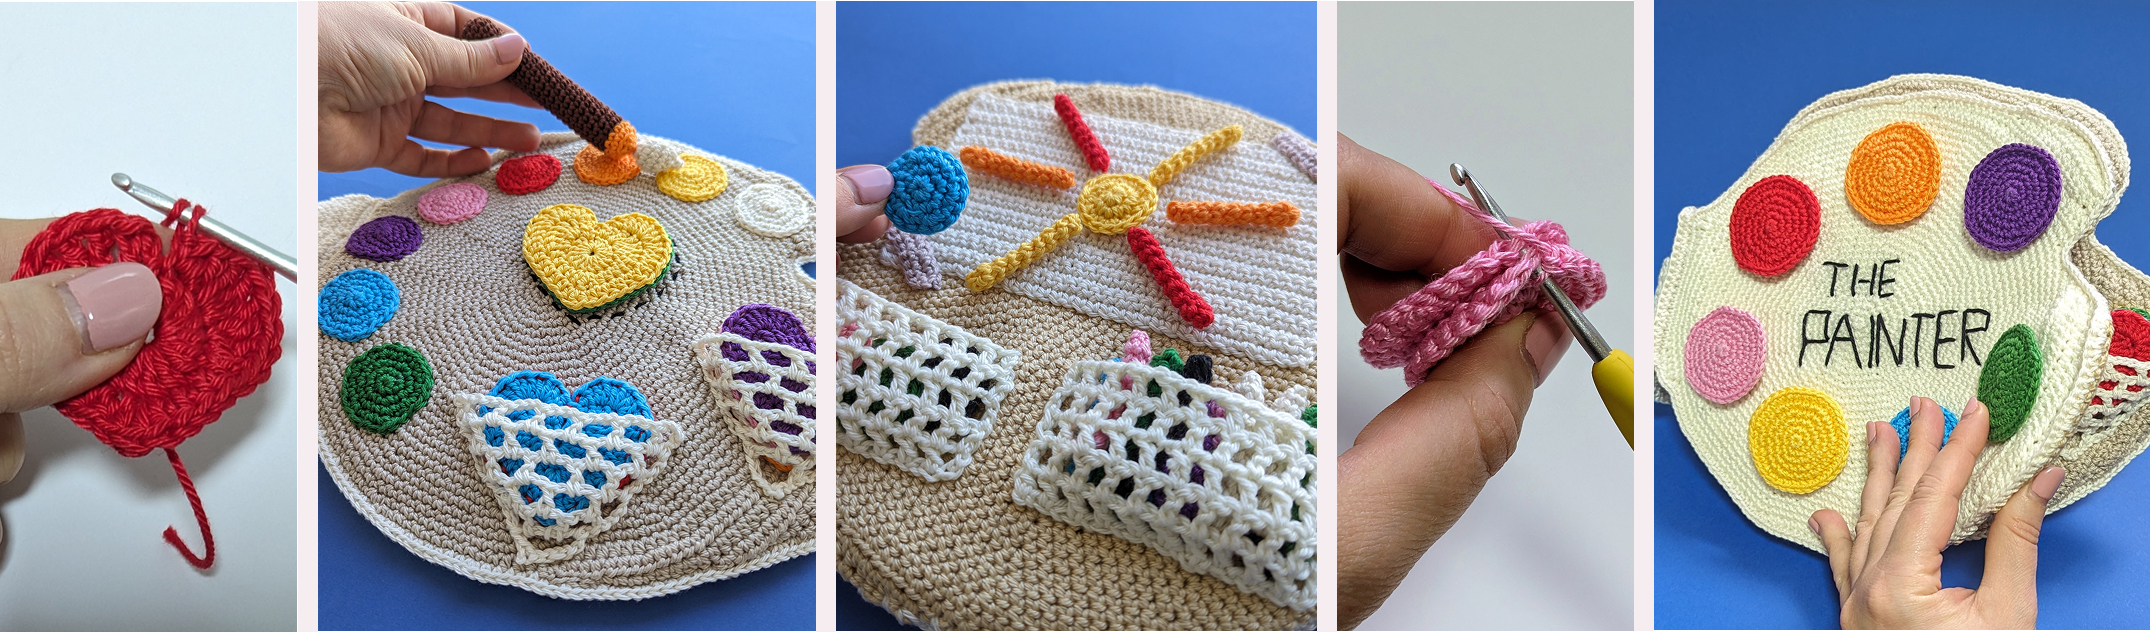
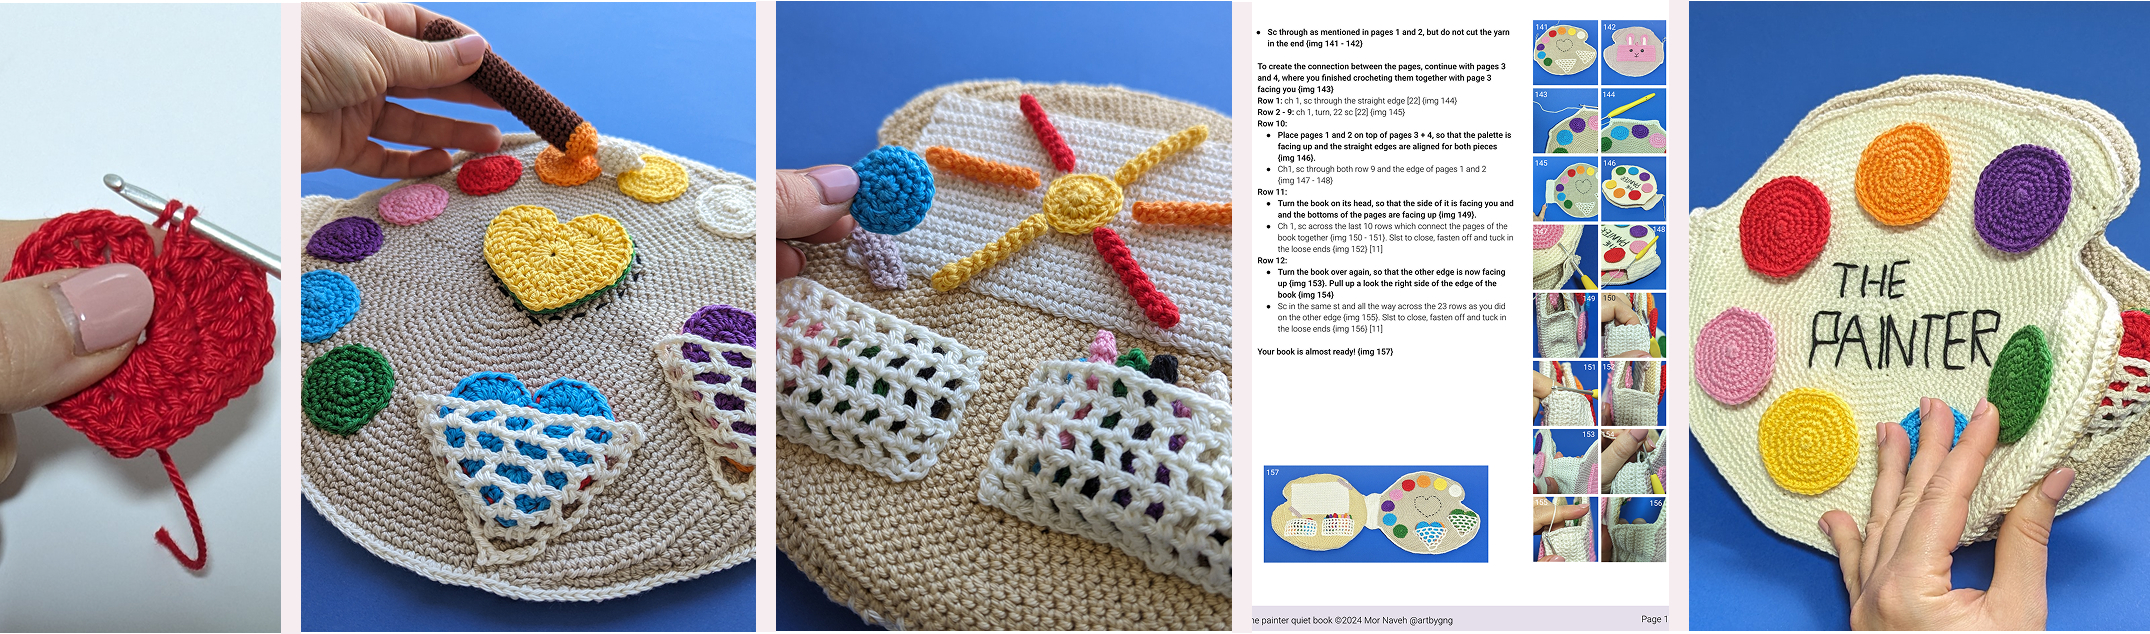
Add Fun Foods pattern page and update all pattern FAQs
- Add fun-foods.md with full content, images, skill notes, and FAQ
- Update homepage FAQ with buyer-concern questions
- Update Bake Time FAQ with pattern-specific questions
- Change "What's inside" to "What's inside the pattern" across all patterns

diff --git a/src/content/patterns/fun-foods.md b/src/content/patterns/fun-foods.md
@@ -1,10 +1,72 @@
 ---
-title: "Fun Foods"
-tagline: "From pizza to watermelon — a playful feast of crocheted food for little hands."
+title: "Fun Foods Pattern"
+tagline: "A crochet PDF pattern for a food-themed quiet book — toppings to pile on, fillings to stuff, and a full little menu to play with."
 coverImage: "/images/patterns/fun-foods/cover.jpg"
-etsy_url: "https://www.etsy.com/shop/artbygng"
-accentColor: "#C45858"
-featured: false
+heroImage: "/images/patterns/fun-foods/hero.jpg"
+etsy_url: "https://www.etsy.com/il-en/listing/1761898842/fun-foods-crochet-quiet-book-pattern"
+accentColor: "#C94F3A"
+featured: true
+skillNotes:
+  easy:
+    - "Each page panel is a flat circle worked in the round — the same construction repeated across all 4 pages, so it gets familiar fast"
+    - "The pizza toppings are small, simple shapes — circles and leaves — each one quick to make and satisfying to finish"
+    - "Color changes happen per piece, not mid-row, so there's no juggling multiple yarns at once"
+    - "Velcro placements are clearly marked throughout, so there's no guessing where each piece attaches"
+  patient:
+    - "The sushi roll has multiple thin layers that need to be carefully assembled and sewn together cleanly"
+    - "The taco shell and pocket require shaping and precise placement to sit correctly on the page"
+    - "The pizza calls for making multiple copies of each topping type — satisfying once you're in the rhythm, but it adds up"
+    - "The fries are individual pieces that each need their own construction and finishing"
+faq:
+  - q: "What ages is this best for?"
+    a: "Fun Foods works well for toddlers and preschoolers — roughly ages 2 to 5. The pizza toppings and taco fillings are satisfying for little hands, while the sushi assembly adds a fun challenge for older kids. As with any toy with small removable pieces, keep an eye on younger toddlers during play."
+  - q: "How many pieces does the child get to play with?"
+    a: "Quite a few — the pizza alone comes with multiple detachable toppings, the taco has a full set of fillings, and the sushi separates into its layers. Each page has its own set of pieces, so the whole book adds up to a lot of interactive play."
+  - q: "Can I choose my own colors?"
+    a: "Absolutely. The pattern tells you which color goes where, but all the choices are yours. Making a classic Margherita pizza or going wild with toppings — it all works."
+  - q: "What's the trickiest part of this pattern?"
+    a: "The sushi layers require the most precision — getting the thin pieces to sit flat and stack cleanly takes care. The taco shell shaping is also slightly more involved than the other pages."
+  - q: "What do I get with my purchase?"
+    a: "An instant-download PDF with written instructions for every element and how to put the book together, step-by-step images throughout, and a full materials list. No subscription, no video required — one purchase, yours to keep."
+details:
+  - label: "Format"
+    value: "PDF instant download"
+  - label: "Stitches"
+    value: "magic ring, ch, slst, sc, hdc, inc, dec, dc, tr"
+  - label: "Hook size"
+    value: "4 mm (G)"
+  - label: "Skill level"
+    value: "Intermediate"
+  - label: "Terminology"
+    value: "US"
+images:
+  - /images/patterns/fun-foods/page-front.jpg
+  - /images/patterns/fun-foods/page-fries.jpg
+  - /images/patterns/fun-foods/page-sushi.jpg
+  - /images/patterns/fun-foods/page-taco.jpg
+customerQuotes: []
+playVideo: "https://www.youtube.com/embed/Nt9RZcjRvOg?rel=0"
+flipVideo: ""
 ---
 
-<!-- PLACEHOLDER: Body content for the pattern spotlight page. -->
+## What's inside the pattern
+
+Fun Foods is a 4-page crochet quiet book built around a street food theme. Each page is a different dish, with detachable toppings and fillings for little hands to pile on, rearrange, and put back.
+Bold colors, familiar foods, and a lot of pieces to play with — a great gift for kids who love pretend cooking and imaginative play.
+
+### The pages
+**Pizza** — A round pizza with a crinkled brown crust and a full set of detachable toppings: tomato slices, white mushrooms, and green basil leaves. Pile them all on or start from scratch — everything velcros in place.
+
+**Street Food** — A bright orange page packed with fast-food fun. French fries sit in their red carton, a burger on a skewer is ready to munch, and a small net pocket holds a sweet treat. "YUM" says it all.
+
+**Sushi** — A sushi roll on a blue page, with all its layers — salmon, cucumber, and rice — that can be taken apart and reassembled. A net pocket on the side holds the pieces between servings.
+
+**Taco** — A purple page with a yellow taco shell that opens up to reveal a crocheted pocket. Fill it with toppings — tomatoes, lettuce, cheese, and meat — then close it up and start again.
+
+---
+
+## What you get
+
+The PDF includes written crochet instructions for every element, with clear diagrams and a materials list. No video, no subscription — one purchase, instant download, yours to keep.
+
+The pattern is written in standard US crochet terms.

diff --git a/src/content/patterns/bake-time.md b/src/content/patterns/bake-time.md
@@ -1,5 +1,5 @@
 ---
-title: "Bake Time"
+title: "Bake Time Pattern"
 tagline: "A crochet PDF pattern for a whole little bakery — mixing, rolling, and decorating, one page at a time."
 coverImage: "/images/patterns/bake-time/cover.jpg"
 etsy_url: "https://www.etsy.com/il-en/listing/1495771677/crochet-bake-time-quiet-book-pattern"
@@ -64,7 +64,7 @@ customerQuotes:
     date: "Jun 25, 2023"
 ---
 
-## What's inside
+## What's inside the pattern
 
 Bake Time is a 8-page crochet quiet book centered around a baking theme. The different pages have interactive pieces for children to play with, including a memory game and a page for learning about counting.
 The bright colors and many different options for playing make this a great gift which can last as a wonderful childhood memory.</br>

diff --git a/src/content/patterns/painter.md b/src/content/patterns/painter.md
@@ -1,5 +1,5 @@
 ---
-title: "The Painter"
+title: "The Painter Pattern"
 tagline: "A crochet PDF pattern for a painting-themed quiet book — colors to mix, pages to explore, and a little artist's studio to build."
 coverImage: "/images/patterns/painter/cover.jpg"
 heroImage: "/images/patterns/painter/hero.jpg"
@@ -51,7 +51,7 @@ playVideo: "https://www.youtube.com/embed/3HLrb4j-zAk?rel=0"
 flipVideo: ""
 ---
 
-## What's inside
+## What's inside the pattern
 
 The Painter is a 4-page crochet quiet book built around an art and color theme. Each page gives little hands something to do — mixing colors, drawing with crayons, and playing with Montessori-themed shapes.
 The bold colors and interactive pieces make it a great gift for curious, creative kids.